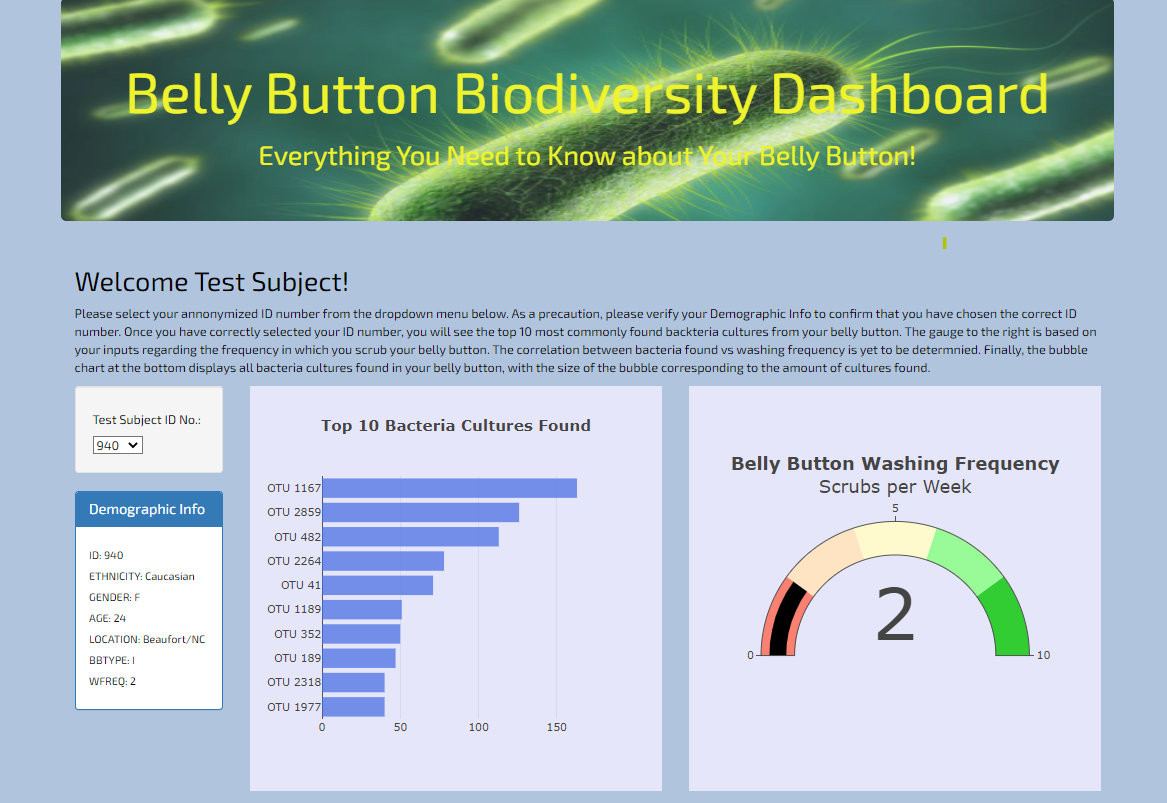
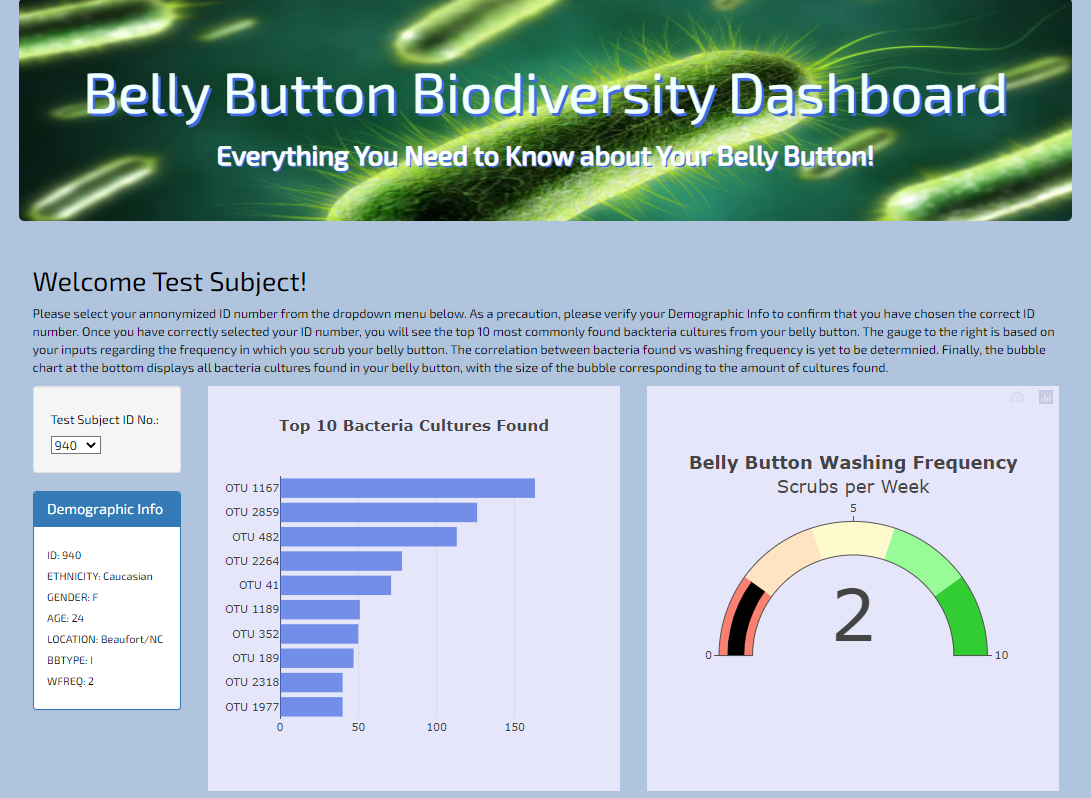
add text-shadow to jumbotron and update homepage image

diff --git a/static/css/style.css b/static/css/style.css
@@ -4,11 +4,17 @@ body {
 }
 
 .jumbotron {
-    background-image: url("https://lmg-labmanager.s3.amazonaws.com/assets/articleNo/26956/aImg/49424/ancient-permafrost-bacteria-can-be-resistant-to-modern-antibiotics-l.jpg");
+    background-image: linear-gradient(rgb(248, 248, 248, 0.01), rgba(0,0,0, 0.01)), url("https://lmg-labmanager.s3.amazonaws.com/assets/articleNo/26956/aImg/49424/ancient-permafrost-bacteria-can-be-resistant-to-modern-antibiotics-l.jpg");
     background-size: 120% 150%;
-    opacity: 0.8;
     text-align: center;
-    color: yellow;
+    color: azure;
 }
 
-.background-image {opacity: 0.5}
+.jumbotron h1 {
+    text-shadow: 3px 3px royalblue;
+}
+
+.jumbotron h2 {
+    text-shadow: 2px 2px royalblue;
+    -webkit-text-stroke: 1px white;
+}
